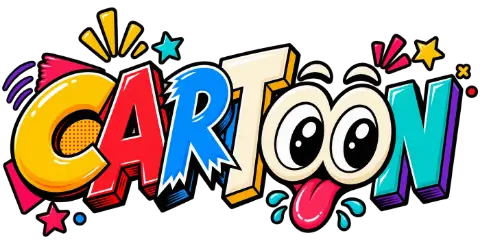
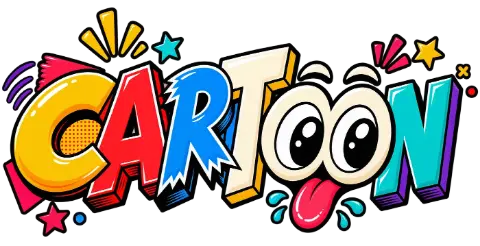
feat(home): lettering CARTOON da versão nova da marca e laço boing
O arquivo oficial "(2)" foi refeito em 13/10/2026 no Dropbox; o site
usava a versão anterior. Lettering ganha um laço curto (moBoing, 3,6s),
desligado com prefers-reduced-motion.

diff --git a/src/styles/scw-motion.css b/src/styles/scw-motion.css
@@ -147,6 +147,24 @@
 .hm-abre .hm-abre__ficha,
 .hm-abre .hm-abre__legenda { animation: moSurge var(--mo-entra) var(--mo-ease) 760ms both; }
 
+/* Lettering da edição (CARTOON): um "boing" de desenho animado a cada 3,6s,
+   depois da entrada do título — achata, estica, pousa e fica parado o resto
+   do ciclo. Pedido do Wilker (13/10/2026). É o único laço da abertura (o vídeo
+   só toca por escolha), e usa as propriedades `scale`/`rotate`/`translate`,
+   não `transform`, para não brigar com a entrada do título (§10.3). Com
+   movimento reduzido, `.hm-abre *` já zera a animação (bloco no fim). */
+.hm-abre .hm-ed__tema:not(.hm-ed__tema--texto) {
+  transform-origin: 50% 85%;
+  animation: moBoing 3600ms var(--mo-suave) 1400ms infinite both;
+}
+@keyframes moBoing {
+  0%, 62%, 100% { scale: 1; rotate: 0deg; translate: 0 0; }
+  68% { scale: 1.06 .92; rotate: 0deg;    translate: 0 2%; }
+  76% { scale: .97 1.05; rotate: -1.6deg; translate: 0 -4%; }
+  84% { scale: 1.02 .98; rotate: 1deg;    translate: 0 0; }
+  91% { scale: .995 1.005; rotate: -.3deg; translate: 0 -.6%; }
+}
+
 /* --- Participar e Apoiar ------------------------------------------------- */
 .pa-hero .scw-hero-banda    { animation: moSurge var(--mo-longo) var(--mo-ease) both; }
 .pa-hero .pa-hero__titulo   { animation: moSobe var(--mo-longo) var(--mo-mola) 240ms both; }

diff --git a/src/styles/scw-home.css b/src/styles/scw-home.css
@@ -336,7 +336,7 @@
   display: block;
   width: min(100%, 680px, calc(30svh * 1.95));
   height: auto;
-  aspect-ratio: 1400 / 718;
+  aspect-ratio: 1400 / 717;
 }
 /* Sem o arquivo da marca, o tema sai em tipografia real — nunca simulado. */
 .hm-ed__tema--texto {

diff --git a/src/pages/CLAUDE.md b/src/pages/CLAUDE.md
@@ -40,7 +40,7 @@ Dado: `festivalFacts`, `proximaEdicao.js`, `AWARDS_DADOS`.
     Wilker para tema Cartoon e datas 5 a 15 de novembro):** `.hm-abre--edicao`, composição
     própria de anúncio. Rótulo "Próxima edição · 2026" → H1 com "Sweet & Coffee Week" e o
     **lettering oficial CARTOON** (`marcas-edicoes/2026.2/tema.webp`, do PNG da marca
-    aprovada no Dropbox F2; `alt="Cartoon"`, então o nome acessível do H1 é "Sweet & Coffee
+    aprovada no Dropbox F2 — refeito do arquivo "(2)" novo em 13/10/2026; `alt="Cartoon"`, então o nome acessível do H1 é "Sweet & Coffee
     Week Cartoon") → **período em amarelo** → uma frase → ações (**"Quero participar"** →
     `/quero-participar/` só enquanto o pré-cadastro estiver aberto; **"Conhecer o
     festival"** rola até `#festival`). Sem ficha de números nem selo. Tema, período e ano
@@ -56,6 +56,10 @@ Dado: `festivalFacts`, `proximaEdicao.js`, `AWARDS_DADOS`.
       nativos — só baixa quando a pessoa dá o play;
     - botão **"Ver no Instagram"** (ícone `redes/instagram`, 24px) para o reel oficial,
       em nova aba, link sem parâmetro de rastreio (`REEL_LANCAMENTO` em `destaqueEdicao.js`).
+    O lettering tem um **laço "boing"** (`moBoing` em `scw-motion.css`, 3,6s, começa
+    depois da entrada do título): achata, estica e pousa, parado ~60% do ciclo. Único
+    laço da abertura; some com `prefers-reduced-motion`. ⚠ Sem botão de pausa, como a
+    faixa do Awards (§6.15) — decisão do Wilker.
     Desktop: coluna do vídeo presa ao topo do texto e tela com teto `48svh`, para o botão
     do Instagram ficar acima do aviso de cookies (que mora no canto inferior direito).
     Celular: texto primeiro sobre a área calma do fundo; o vídeo vem depois das ações num
